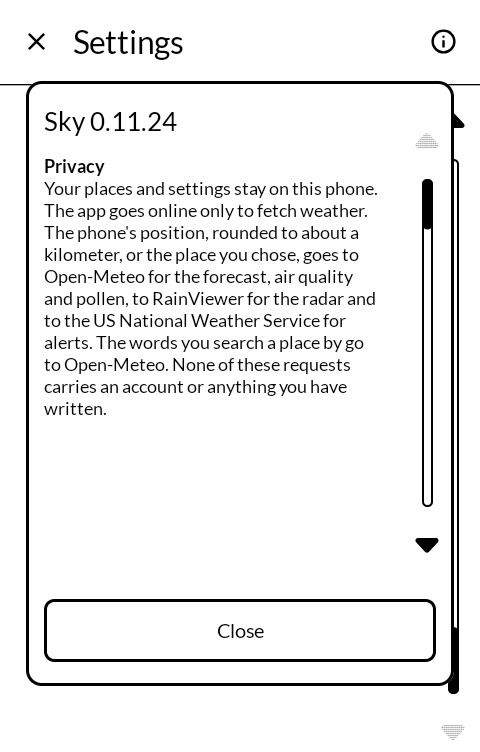
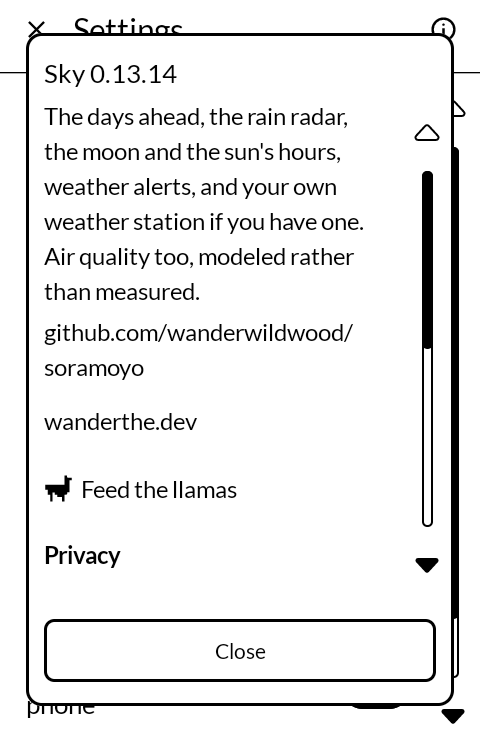
README: Dark mode and Wander's question about the sky; About shot retaken

diff --git a/README.md b/README.md
@@ -18,7 +18,8 @@ the station and the forecast are added here.
 
 ## What it shows
 
-Four tabs: **Today**, **Forecast**, **Radar** and **Almanac**. Today opens.
+Four tabs: **Today**, **Forecast**, **Radar** and **Almanac**. Today opens. Settings has a
+**Dark mode** switch; it also follows the phone's dark setting, and Home's if Home is installed.
 
 **The station, if you have one.** Temperature, what it feels like, wind and gusts, rain today
 and whether it is falling now, humidity, dew point, pressure and UV, from one of four kinds:
@@ -157,6 +158,12 @@ the lock screen: the temperature, the day's high and low, and when rain is likel
 the lock screen fetches the forecast the same way opening the app does, at most once every half
 hour, and nothing runs on a timer. Settings → The weather on the lock screen turns it off; the
 lines go to Glance alone.
+
+With Wander installed, its walking game can ask what the sky is doing (clear, fog, rain or
+snow, the wind, the moon, and the kind of the most serious US alert, never its text or where
+you are), so the weather in its wood follows the real one. Sky answers only an app that carries
+Wander's own release certificate, from what it has already fetched; nothing is fetched for
+Wander alone.
 
 With [Clock](https://github.com/wanderwildwood/tokei) installed and its setting for it switched
 on, an alarm ringing shows the same first line: the temperature, the sky and the day's high and
